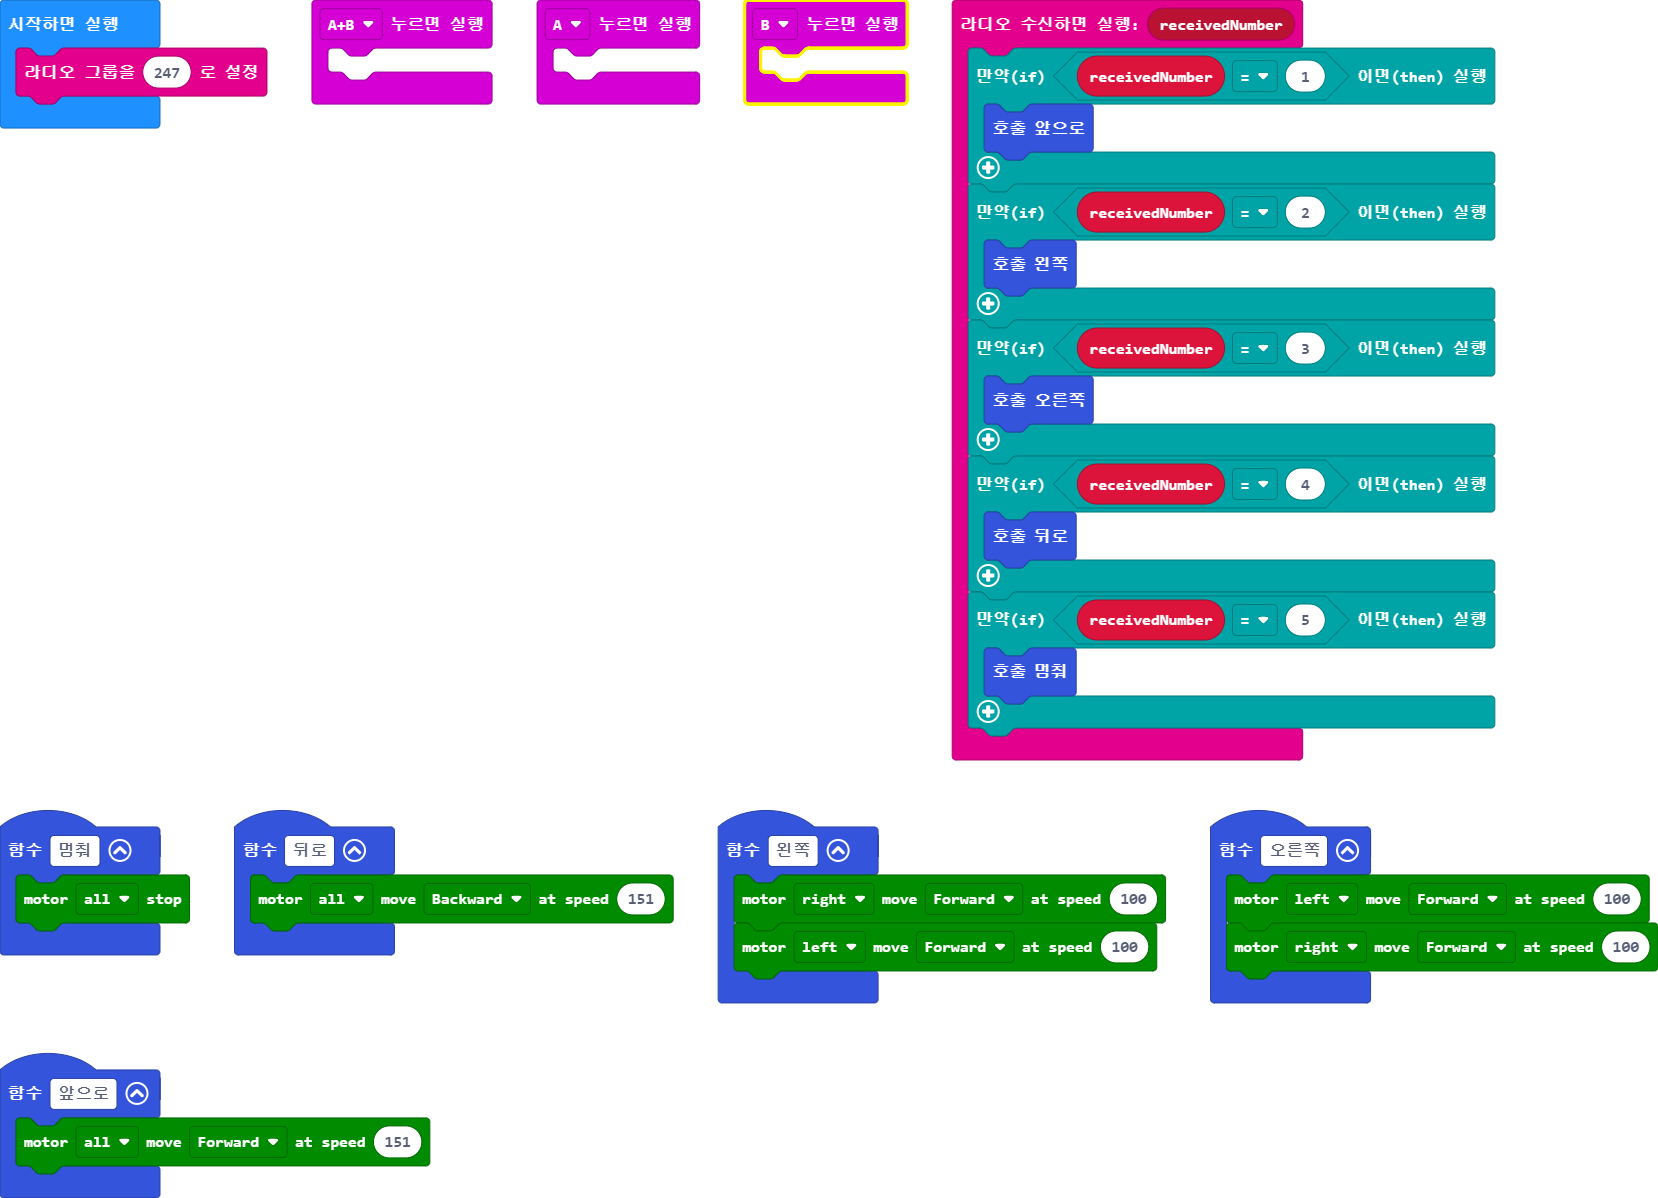
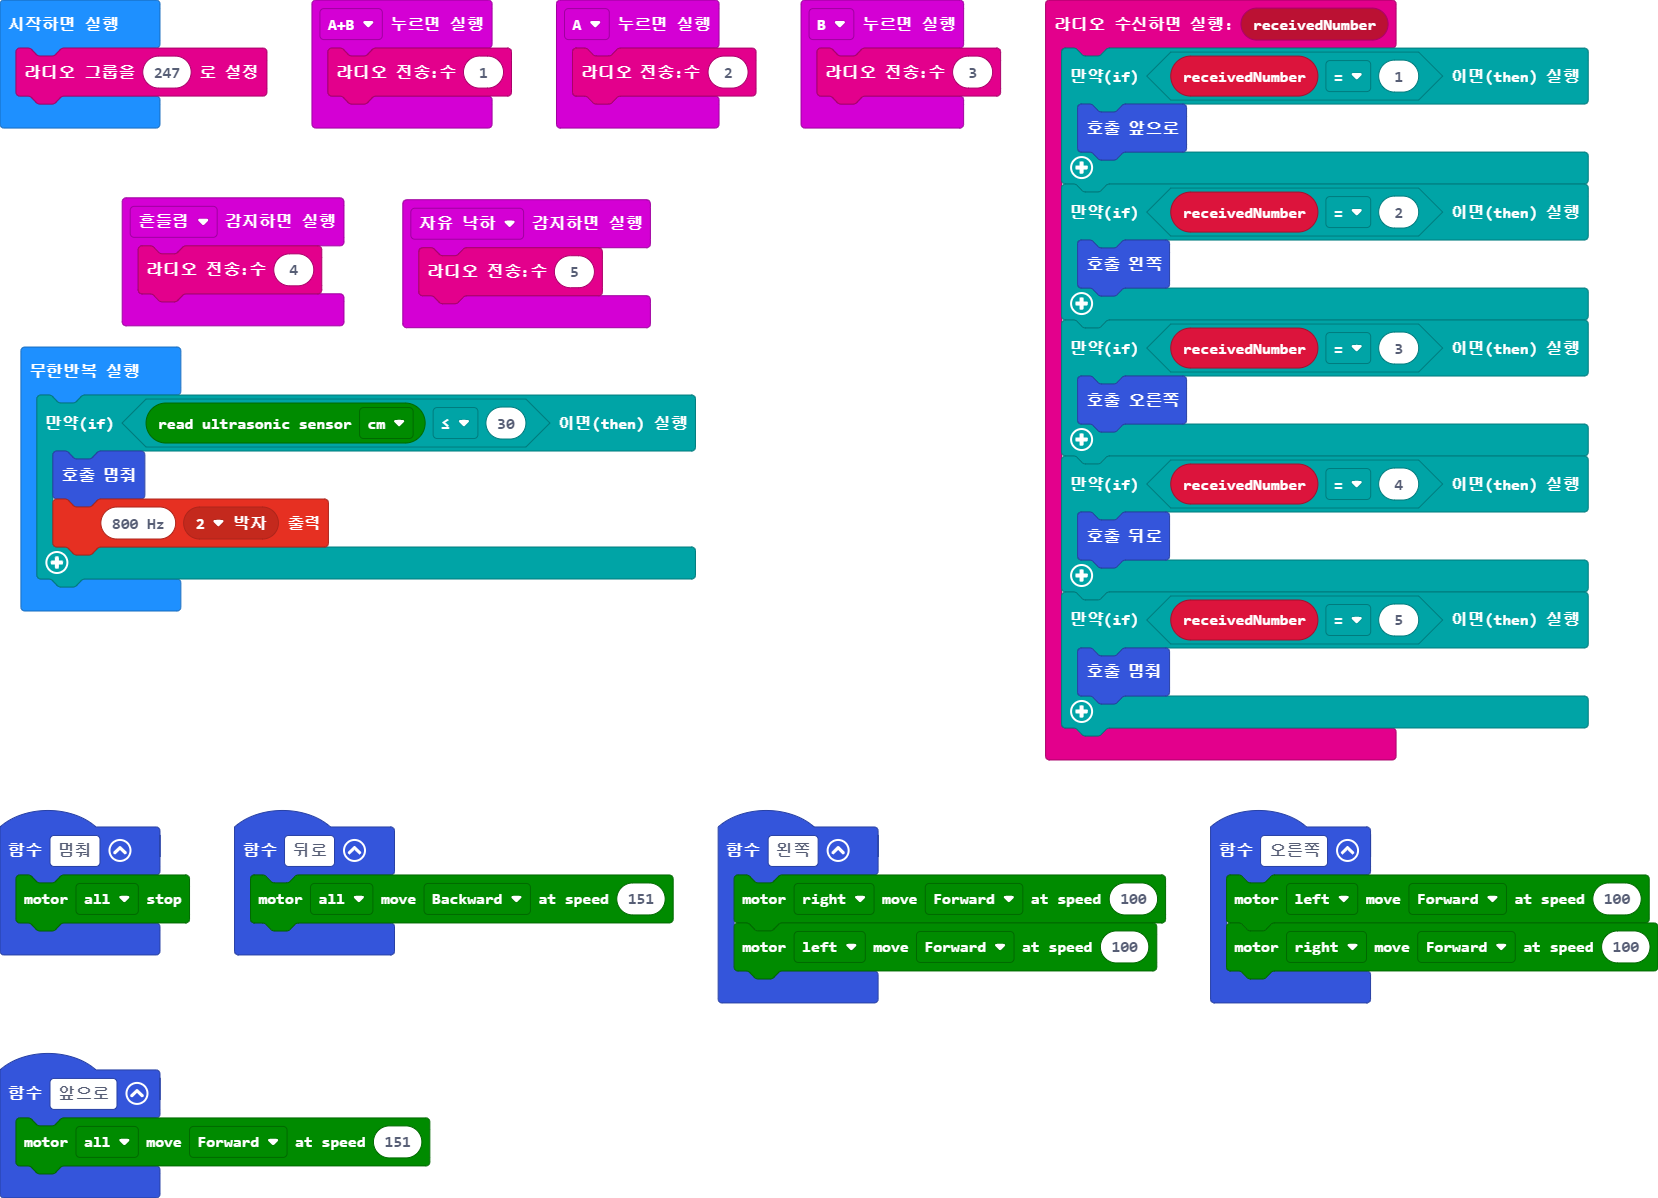
main.blocks, main.ts 업데이트하기

Changed region(s): [[0.1846, 0.0, 0.9843, 0.6486], [0.0, 0.1544, 0.4306, 0.525], [0.769, 0.5868, 0.8613, 0.6486]]

diff --git a/main.ts b/main.ts
@@ -20,7 +20,13 @@ function 왼쪽 () {
     maqueen.motorRun(maqueen.Motors.M1, maqueen.Dir.CW, 100)
 }
 input.onButtonPressed(Button.A, function () {
-	
+    radio.sendNumber(2)
+})
+input.onGesture(Gesture.FreeFall, function () {
+    radio.sendNumber(5)
+})
+input.onGesture(Gesture.Shake, function () {
+    radio.sendNumber(4)
 })
 function 오른쪽 () {
     maqueen.motorRun(maqueen.Motors.M1, maqueen.Dir.CW, 100)
@@ -33,12 +39,18 @@ function 멈춰 () {
     maqueen.motorStop(maqueen.Motors.All)
 }
 input.onButtonPressed(Button.AB, function () {
-	
+    radio.sendNumber(1)
 })
 input.onButtonPressed(Button.B, function () {
-	
+    radio.sendNumber(3)
 })
 function 앞으로 () {
     maqueen.motorRun(maqueen.Motors.All, maqueen.Dir.CW, 151)
 }
 radio.setGroup(247)
+basic.forever(function () {
+    if (maqueen.Ultrasonic(PingUnit.Centimeters) <= 30) {
+        멈춰()
+        music.playTone(800, music.beat(BeatFraction.Double))
+    }
+})
